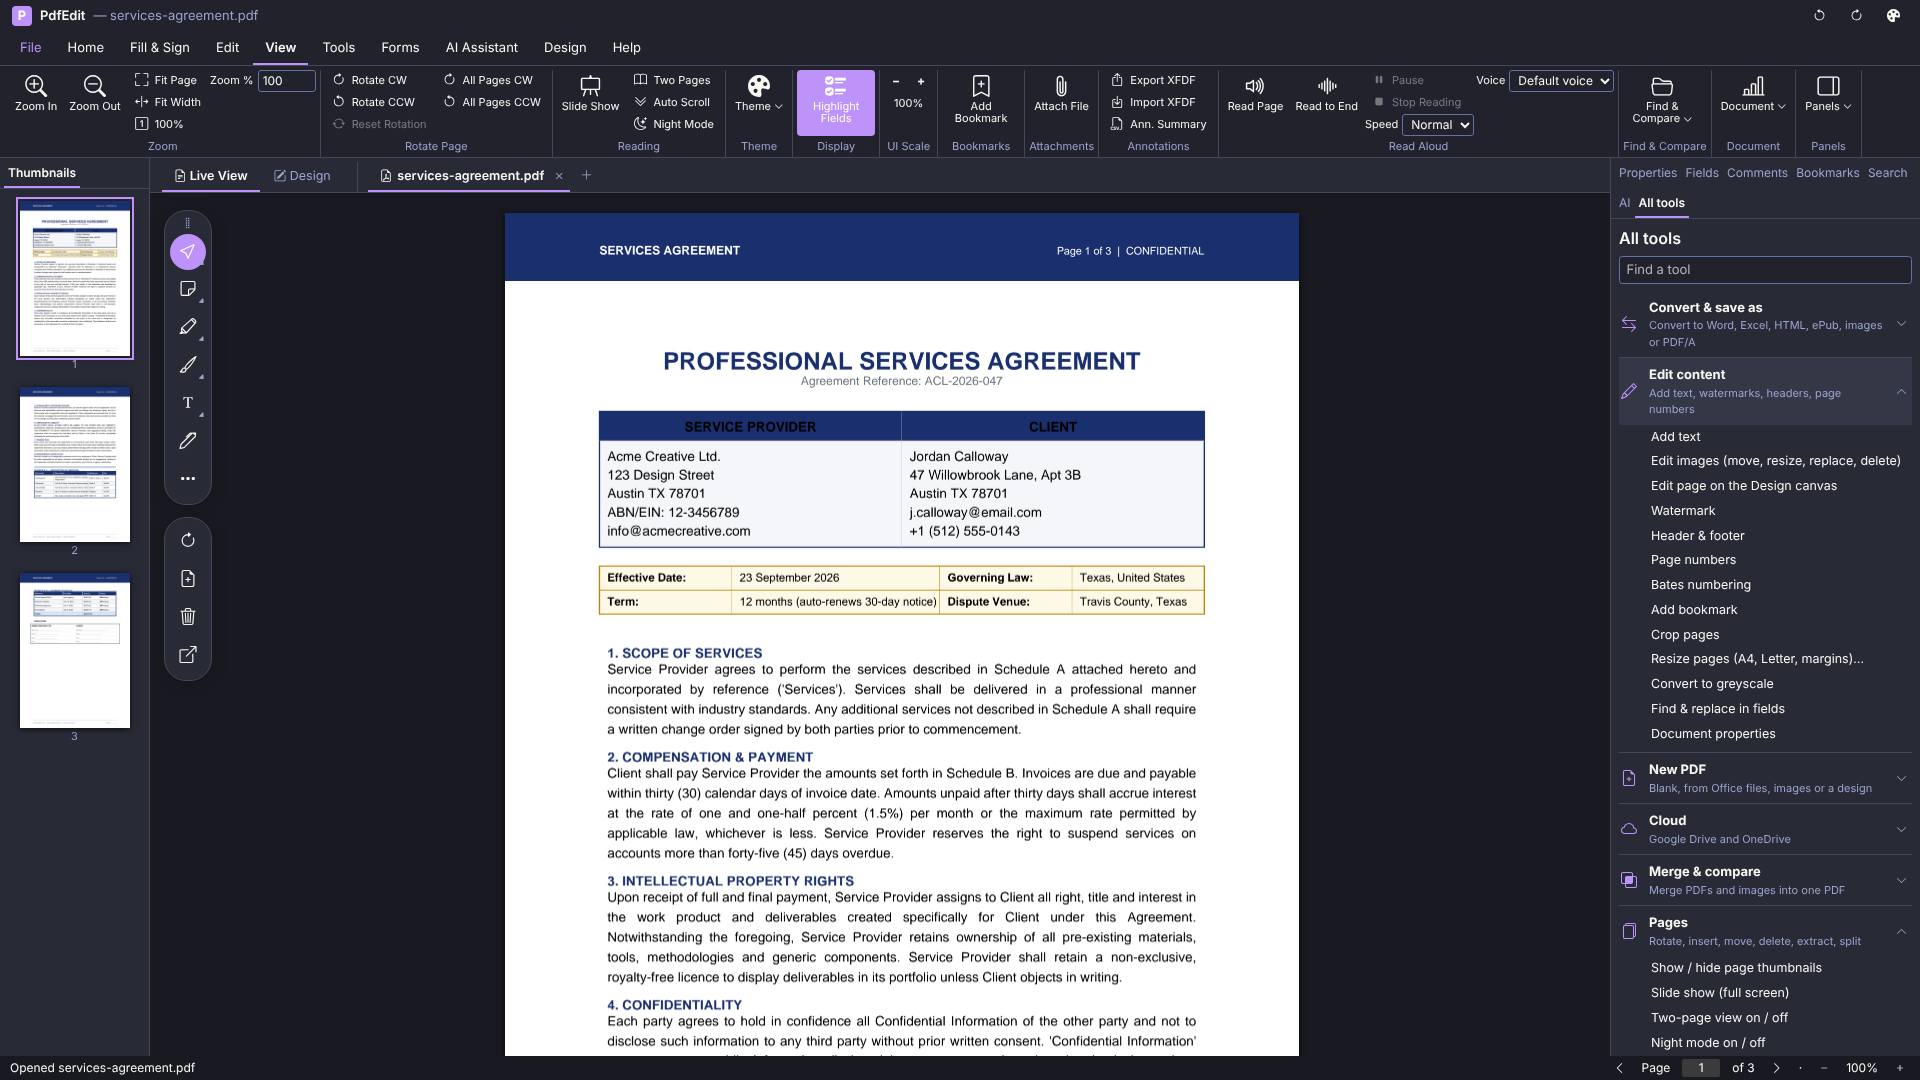
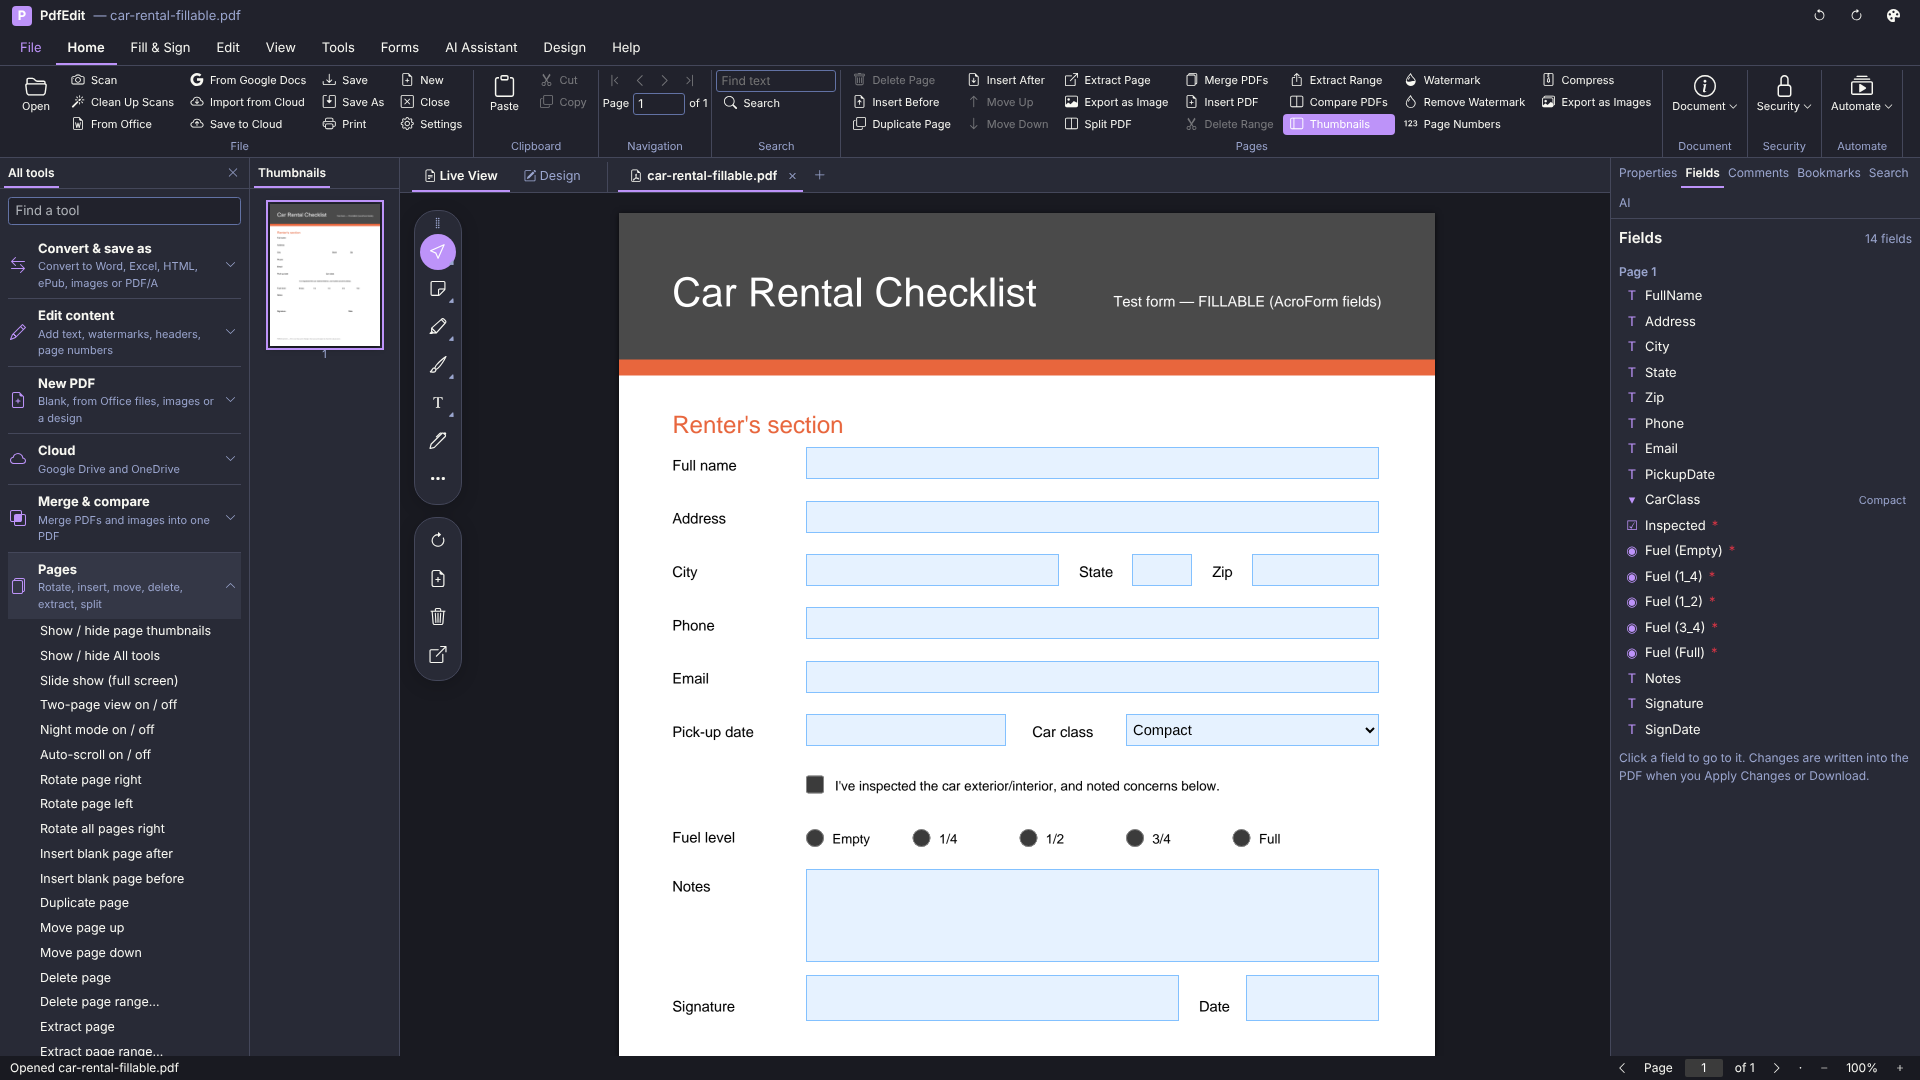
Version 1.3.0: templates; web version screenshots and docs
- Version 1.3.0 (app, Core and installer): 70 templates with a chooser
  on Windows and the web, and the web version's catch-up with the
  desktop.
- New web screenshots: template gallery and preview, start page with
  recent files, floating item toolbar, date format, right-click menus,
  Properties, Comments with review threads, thumbnail menu, field menu
  and the dark File menu; Design ribbon and All tools (now docked on the
  left) refreshed.
- README, the web version's README, features, screenshots, design
  canvas (the template list) and keyboard shortcuts (web additions)
  brought up to date.

Claude-Session: https://claude.ai/code/session_01LmWRNzAEX1NCoLYzGP5sGX

diff --git a/PdfEdit.Blazor/README.md b/PdfEdit.Blazor/README.md
@@ -17,6 +17,16 @@ offered on the start page.
 
 <table>
   <tr>
+    <td align="center"><img src="../docs/screenshots/blazor/templates-gallery.png" alt="Template gallery"><br>Templates (File → New)</td>
+    <td align="center"><img src="../docs/screenshots/blazor/item-toolbar.png" alt="Floating item toolbar"><br>Floating toolbar on anything you add</td>
+    <td align="center"><img src="../docs/screenshots/blazor/comments-panel.png" alt="Comments panel"><br>Comments with review threads</td>
+  </tr>
+  <tr>
+    <td align="center"><img src="../docs/screenshots/blazor/right-click-menu.png" alt="Right-click menu"><br>Right-click menus</td>
+    <td align="center"><img src="../docs/screenshots/blazor/properties-panel.png" alt="Properties panel"><br>Properties and Lock</td>
+    <td align="center"><img src="../docs/screenshots/blazor/start-page.png" alt="Start page"><br>Recent files and templates</td>
+  </tr>
+  <tr>
     <td align="center"><img src="../docs/screenshots/blazor/tools-tab.png" alt="Tools tab with markup on the page"><br>Tools tab and toolbox</td>
     <td align="center"><img src="../docs/screenshots/blazor/toolbox-comment.png" alt="Comment flyout"><br>Comment tools</td>
     <td align="center"><img src="../docs/screenshots/blazor/toolbox-highlight.png" alt="Highlight flyout"><br>Highlight tools</td>
@@ -93,9 +103,12 @@ the files) to upload.
 
 | Area | Features |
 |---|---|
-| File | Open (upload or samples; Word, Excel, PowerPoint, OpenDocument, text, Markdown and web pages are converted to PDF), password-protected PDFs, New blank, Create from images/files, Save (download), Save As flattened / PDF/A / password-protected, Print, Export, Close |
+| Templates | File → New is a gallery of 70 templates like Office's and Adobe's (business, fillable forms, agreements, letters, resumes, marketing, certificates and cards, education, planners and calendars) with search, categories, thumbnails and a large preview: customise one on the Design canvas or open it as a fillable PDF. The same catalog as the Windows app (File → New from Template) |
+| Editing what you add | Everything you add stays editable after Apply changes, saving, page commands and reopening (PdfEdit's own annotations are read back from the PDF). A floating toolbar like the Windows app's (smaller / larger, delete, rotate, character spacing, fit box, swap mark, colours); resize from any edge or corner; arrow keys nudge (Shift: further); right-click menus for items, the page, form fields (align, distribute, same size) and links; Properties for the selected item (text, format, rotation, spacing, position and size, Lock — locked text keeps the PDF's Locked flag); dates change format, day, month and year in place |
+| Comments | Filter by type, status and reviewer, search and sort; each comment has a checkmark, a review status, a note and a reply thread, saved in the PDF the way the Windows app and Acrobat store them |
+| File | Open (upload or samples; Word, Excel, PowerPoint, OpenDocument, text, Markdown and web pages are converted to PDF), recent files (kept in this browser), password-protected PDFs, New blank, Create from images/files, Save (download), Save As flattened / PDF/A / password-protected, Print, Export, Close |
 | Fill & Sign | Fill every kind of form field, Add Text, Date, ticks, crosses and dots, draw or type a signature and place it, sticky notes, highlights, drag anything you've added to move it or its corner to resize it, works on rotated pages too (text, stamps and signatures are written upright), Apply Changes, Flatten & Download |
-| Pages | Rotate, delete, insert blank before/after, duplicate, move up/down, extract or delete a range, split, merge PDFs and pictures, insert a PDF, export a page as an image |
+| Pages | Thumbnails with rotate and delete on hover, a right-click menu and drag to reorder; rotate, delete, insert blank before/after, duplicate, move up/down, extract or delete a range, split, merge PDFs and pictures, insert a PDF, export a page as an image |
 | Document | Properties, watermark (add/remove), page numbers, header/footer, Bates numbers, compress, resize pages, pages per sheet, booklet, greyscale |
 | Security | Password protect, remove hidden information, redaction (mark, then apply) |
 | Edit | Undo/Redo for everything, export/import form data, reset form, check required fields, rectangles and ellipses |
@@ -111,11 +124,11 @@ the files) to upload.
 | Certificate signing | Sign with Certificate using your .pfx / .p12 Digital ID or a new self-signed one (downloaded so you can reuse it): in an empty signature field, a box on the page or invisibly, with reason, location, contact, optional timestamp server, certify, and your drawn signature in the box; Check Signatures shows whether each signature is intact, trusted and what it covers. The Digital ID is only held in memory for the session |
 | Floating toolbox | The quick-tools rail beside the pages, like the Windows app's: Select (Hand to pan, Marquee zoom), Comment (sticky note, text callout with a leader line, insert text, replace text, stamps with a picker, comments list), Highlight (highlight, underline, squiggly, strikethrough, with colours), Draw (freehand, rectangle, ellipse, arrow, line, cloud, polygon, polyline, eraser, with ink colours), Add text (text, tick, cross, dot, circle, line, date, vertical text, with mark colours), Sign (saved signatures and initials, add new, sign with certificate), More (measure with units, navigate, fill, shapes, form fields) and page tools (rotate, insert blank, delete, extract). Each group remembers the last tool picked; the corner arrow opens its options. In Design view it becomes the design toolbox: select, fill, sign, text, shapes, pen, picture, table, ticks, crosses, every field type, and a grid with snap. Single-letter shortcuts (V select, H hand, Z zoom, T text, I highlight, W draw, M stamp, D date, S sign, E edit fields) work when you're not typing in a box. Everything saves as real PDF annotations with their own appearance, so they show in any viewer |
 | Saved signatures | Signatures and initials you draw or type can be kept for next time: they're stored in `pdfedit.db` (SQLite) in the app's folder, keyed by an anonymous ID kept in your browser, at most eight of each, and can be deleted from the Sign flyout. Set `PdfEdit:Database` to put the database somewhere else. Digital IDs and passwords are never stored |
-| Matching the Windows ribbon | Home: Scan (camera), Clean Up Scans (blank pages, crooked scans, two-page spreads), From Google Docs (a shared link), Save As, Close, Settings, Cut / Copy / Paste (also a picture pasted from another app with Ctrl+V), First / Previous / Next / Last page, Extract Page, Delete / Extract Range, Crop Pages, Remove Password. Fill & Sign: Hand, Zoom, Vertical Text, Line and Circle marks, text size, A− / A+, bold, italic, underline and colours, New Initials, Stamps… (your own stamps, kept per browser), Highlight Fields, Clear All, Eraser, Link. Edit: Undo / Redo Ann., Delete, Find & Highlight, Import from JSON, Find & Replace in fields, Export to Other, Extract Images, Arrange Fields (align, space and size several fields: Ctrl+click to select). View: Rotate CW / CCW, Reset Rotation, All Pages, Slide Show, Two Pages, Auto Scroll, Night Mode, UI Scale, Add Bookmark, Attach File, Export / Import XFDF, Annotation Summary (CSV), Search PDFs (a folder), Visual Compare, Accessibility Check (with fixes). Tools: Select Text (copy, highlight, ask the AI), Edit Images, Snapshot, Remove Links, Callout, Cloud, Polygon, Polyline, highlight opacity, stroke width, text alignment and UPPERCASE. Forms tab. AI: Outline, Write (email, study notes, flashcards, quiz, FAQ, actions, plain English, social post), Ask by Voice (the browser's speech recognition), Ask Across PDFs (answers cite file and page), Design Form with AI, Mind Map, Fill Fields, Profiles and Quick Fill. Design: the seven templates, Import PDF Page, text, shape, field and pen formats, Align (Ctrl+click several), Bring Forward / Send Backward, page size, grid, snap, background, zoom, position and size, Export Image (PNG or JPEG). Help: What's New, Tip of the Day, Take the Tour. Keyboard: Ctrl+X/C/V, Del, Ctrl+] / Ctrl+[, Ctrl+→ / Ctrl+←, Ctrl+Shift+= / −, F1 |
+| Matching the Windows ribbon | Home: Scan (camera), Clean Up Scans (blank pages, crooked scans, two-page spreads), From Google Docs (a shared link), Save As, Close, Settings, Cut / Copy / Paste (also a picture pasted from another app with Ctrl+V), First / Previous / Next / Last page, Extract Page, Delete / Extract Range, Crop Pages, Remove Password. Fill & Sign: Hand, Zoom, Vertical Text, Line and Circle marks, text size, A− / A+, bold, italic, underline and colours, New Initials, Stamps… (your own stamps, kept per browser), Highlight Fields, Clear All, Eraser, Link. Edit: Undo / Redo Ann., Delete, Find & Highlight, Import from JSON, Find & Replace in fields, Export to Other, Extract Images, Arrange Fields (align, space and size several fields: Ctrl+click to select). View: Rotate CW / CCW, Reset Rotation, All Pages, Slide Show, Two Pages, Auto Scroll, Night Mode, UI Scale, Add Bookmark, Attach File, Export / Import XFDF, Annotation Summary (CSV), Search PDFs (a folder), Visual Compare, Accessibility Check (with fixes). Tools: Select Text (copy, highlight, ask the AI), Edit Images, Snapshot, Remove Links, Callout, Cloud, Polygon, Polyline, highlight opacity, stroke width, text alignment and UPPERCASE. Forms tab. AI: Outline, Write (email, study notes, flashcards, quiz, FAQ, actions, plain English, social post), Ask by Voice (the browser's speech recognition), Ask Across PDFs (answers cite file and page), Design Form with AI, Mind Map, Fill Fields, Profiles and Quick Fill. Design: All Templates and the seven classic ones, Import PDF Page, text, shape, field and pen formats, Align (Ctrl+click several), Bring Forward / Send Backward, page size, grid, snap, background, zoom, position and size, Export Image (PNG or JPEG). Help: What's New, Tip of the Day, Take the Tour. Keyboard: Ctrl+X/C/V, Del, Ctrl+] / Ctrl+[, Ctrl+→ / Ctrl+←, Ctrl+Shift+= / −, F1 |
 | Kept per browser | Settings (your name for dynamic stamps, date format, text size and colour, UI scale, Fit Width on open, field highlighting, tips at start), your own stamps and fill-in profiles are kept in `pdfedit.db` (SQLite) in the app's folder, under the browser's anonymous ID, like saved signatures. API keys, passwords and Digital IDs are never stored |
 | AI Assistant | Chat about the open PDF with page links, Summarize, Extract data, Review contract, Find personal info, Translate, Fill form with AI, Translate PDF (every paragraph translated and written back in place, keeping the layout; Undo brings back the original), and the changes the AI proposes (fill fields, highlight, redact, notes, stamps, rotate, delete, watermark, bookmarks, commands) applied one by one or all at once |
 
-Keyboard: Ctrl+O, Ctrl+S, Ctrl+P, Ctrl+Z, Ctrl+Y, Ctrl+F, Ctrl+plus/minus, Ctrl+0, Esc.
+Keyboard: Ctrl+O, Ctrl+S, Ctrl+Shift+S (Save As), Ctrl+P, Ctrl+Z, Ctrl+Y, Ctrl+F, Ctrl+G (go to page), Ctrl+W, Ctrl+plus/minus, Ctrl+0, Alt+Page Down / Up (next / previous document — browsers keep Ctrl+Tab), arrow keys to nudge, Esc.
 
 ## AI keys
 

diff --git a/README.md b/README.md
@@ -44,6 +44,48 @@ Google Drive and OneDrive, Office files to PDF, several documents open at once, 
 floating toolbox beside the pages.
 How to run it and what it needs on the server: [PdfEdit.Blazor/README.md](PdfEdit.Blazor/README.md).
 
+**Templates: 70 to start from, in a gallery like Office's (File → New)**
+
+![The template gallery](docs/screenshots/blazor/templates-gallery.png)
+
+![A template opened in the preview, ready to customise or open as a PDF](docs/screenshots/blazor/templates-preview.png)
+
+**The start page: recent files and featured templates**
+
+![The start page](docs/screenshots/blazor/start-page.png)
+
+**Everything you add has the Windows app's floating toolbar: smaller, larger, delete, rotate, spacing, fit and colours**
+
+![The floating toolbar over selected text, with character spacing open](docs/screenshots/blazor/item-toolbar.png)
+
+**Dates change format, day, month and year in place**
+
+![The date format popover](docs/screenshots/blazor/date-format.png)
+
+**Right-click anything on the page**
+
+![The right-click menu on a stamp](docs/screenshots/blazor/right-click-menu.png)
+
+**Properties for the selected item, with Lock**
+
+![Properties of the selected text](docs/screenshots/blazor/properties-panel.png)
+
+**Comments: review status, checkmarks, notes and replies, saved in the PDF**
+
+![The Comments panel with a review thread](docs/screenshots/blazor/comments-panel.png)
+
+**Thumbnails: rotate and delete on hover, a right-click menu, and drag to reorder**
+
+![The thumbnail menu](docs/screenshots/blazor/thumbnail-menu.png)
+
+**Edit Fields: align, space and size fields from the right-click menu**
+
+![The field menu in Edit Fields](docs/screenshots/blazor/field-menu.png)
+
+**The File menu follows the dark theme**
+
+![The File menu in the dark theme](docs/screenshots/blazor/file-menu-dark.png)
+
 **The Tools tab and the floating toolbox: highlight, underline, strikethrough, rectangle, arrow, cloud, callout, sticky note, stamp and a measurement on a page**
 
 ![The Tools tab with comments and markup placed on the page](docs/screenshots/blazor/tools-tab.png)
@@ -90,7 +132,7 @@ How to run it and what it needs on the server: [PdfEdit.Blazor/README.md](PdfEdi
 
 ![A collapsed ribbon group dropped down](docs/screenshots/blazor/ribbon-collapsed.png)
 
-**All tools pane, in the Dracula theme**
+**All tools pane, docked on the left beside the thumbnails as in the Windows app (Dracula theme)**
 
 ![All tools pane in the Dracula theme](docs/screenshots/blazor/all-tools-dracula.png)
 

diff --git a/docs/design-canvas.md b/docs/design-canvas.md
@@ -39,7 +39,19 @@ It uses whichever AI provider is selected (Claude, Copilot, ChatGPT or a local m
 
 ## Templates
 
-Invoice, Letter, Form, Certificate, Business Card, Résumé and Flyer are all ready to edit.
+**All Templates** on the Design tab (or **File → New from Template**; **File → New** in the web version) opens a gallery of 70 templates in nine categories, with search and a large preview:
+
+- **Business**: invoices, a quote, a receipt, a purchase order, a price list, a letterhead, proposal and report covers, a project status report
+- **Forms**: job and rental applications, event registration, contact details, a feedback survey, an order form, consent and release, a time-off request, an expense report, a timesheet, an incident report and a sign-in sheet
+- **Agreements**: an NDA, a service agreement, a rental agreement and a bill of sale
+- **Letters & office**: a letter, a memo, a fax cover, a meeting agenda and minutes, and a press release
+- **Resumes**: three resumes and a matching cover letter
+- **Marketing & events**: flyers, posters, a menu, a newsletter, a tri-fold brochure, an invitation and a property flyer
+- **Certificates & cards**: certificates, a gift certificate, a business card, a thank-you card, a ticket and name badges
+- **Education**: a lesson plan, a worksheet, class attendance, lined, graph and dot-grid paper, and Cornell notes
+- **Planning & personal**: daily and weekly planners, monthly and year calendars, a checklist, a budget, a goal planner, a meal planner and a travel itinerary
+
+**Customise in Design** puts the template on the canvas to change. **Open as PDF** makes it a PDF straight away. Templates marked *Fillable* have real form fields, so the PDF is ready to fill in, sign and send. The Windows app and the web version use the same templates. The classic seven (Invoice, Letter, Form, Certificate, Business Card, Résumé and Flyer) still have their own buttons on the Design tab.
 
 ## Getting a PDF out
 

diff --git a/docs/screenshots.md b/docs/screenshots.md
@@ -88,6 +88,16 @@ PdfEdit in the browser ([PdfEdit.Blazor](../PdfEdit.Blazor/README.md)): the same
 
 | | |
 |---|---|
+| <img src="screenshots/blazor/templates-gallery.png" width="480" alt="The template gallery (File → New)"> | <img src="screenshots/blazor/templates-preview.png" width="480" alt="A template in the preview"> |
+| Templates (File → New) | Template preview |
+| <img src="screenshots/blazor/start-page.png" width="480" alt="Start page with recent files and templates"> | <img src="screenshots/blazor/item-toolbar.png" width="480" alt="The floating toolbar over selected text"> |
+| Recent files and featured templates | Floating toolbar on anything you add |
+| <img src="screenshots/blazor/right-click-menu.png" width="480" alt="Right-click menu on a stamp"> | <img src="screenshots/blazor/properties-panel.png" width="480" alt="Properties of the selected item"> |
+| Right-click menus | Properties and Lock |
+| <img src="screenshots/blazor/comments-panel.png" width="480" alt="Comments panel with review status and replies"> | <img src="screenshots/blazor/field-menu.png" width="480" alt="Field menu in Edit Fields"> |
+| Comments: status, checkmarks, replies | Edit Fields: align, space, size |
+| <img src="screenshots/blazor/thumbnail-menu.png" width="480" alt="Thumbnail menu"> | <img src="screenshots/blazor/date-format.png" width="480" alt="Date format popover"> |
+| Thumbnail menu, rotate, drag to reorder | Date format, day, month, year |
 | <img src="screenshots/blazor/theme-light.png" width="480" alt="Filling a form in the web version, Light theme"> | <img src="screenshots/blazor/theme-dark.png" width="480" alt="Dark theme"> |
 | Light | Dark |
 | <img src="screenshots/blazor/theme-high-contrast.png" width="480" alt="High contrast theme"> | <img src="screenshots/blazor/draw-measure.png" width="480" alt="A stamp, freehand drawing, an arrow and a distance measurement"> |

diff --git a/docs/features.md b/docs/features.md
@@ -8,6 +8,8 @@ Everything below is free and included. There's no account, no watermark and no d
 
 ## What's new
 
+- **Templates**: start from one of 70 templates (invoices, quotes, receipts, fillable forms and applications, agreements, letters, resumes, flyers and menus, certificates and cards, worksheets, planners, calendars and budgets) in a gallery with search, categories and a preview, like Office's. Customise it on the Design canvas or open it straight away as a fillable PDF. File → New from Template on Windows, File → New on the web.
+- **Web version catches up**: added text, stamps, marks, drawings and highlights stay editable after saving; a floating toolbar and right-click menus; Properties and Lock for the selected item; a Comments panel with review status, checkmarks, notes and replies; thumbnail rotate, delete, menu and drag to reorder; All tools docked on the left; recent files; editing the PDF's own links; dates that change format in place.
 - **Edit images**: select any picture already in a PDF to move it, resize it, replace it with another, save it, copy it or delete it.
 - **Snapshot**: drag a box round any area of a page and copy it or save it as a picture.
 - **Resize pages**: change the paper size (A4, Letter, Legal, A3, A5 or your own) or add a margin. Content is scaled to fit, and form fields, links and comments move with it.

diff --git a/docs/keyboard-shortcuts.md b/docs/keyboard-shortcuts.md
@@ -44,3 +44,16 @@ Press F1 in the app to see the shortcuts in use. Single-letter shortcuts are ign
 | Table | B | Select text (Live view) | Shift+S |
 | Cross / Fill text field | X / F | Highlight / Draw / Sticky note | I / W / N |
 | Slide show | F5 | | |
+
+## Web version
+
+The web version has the same shortcuts where a browser allows them. It also adds:
+
+| Action | Keys |
+|--------|------|
+| Go to a page | Ctrl+G |
+| Save As | Ctrl+Shift+S |
+| Close the document | Ctrl+W |
+| Next / previous open document | Alt+Page Down / Alt+Page Up (browsers keep Ctrl+Tab for their own tabs) |
+| Nudge what's selected on the page | Arrow keys (Shift for bigger steps) |
+| Menu for what's under the pointer | Right-click |
